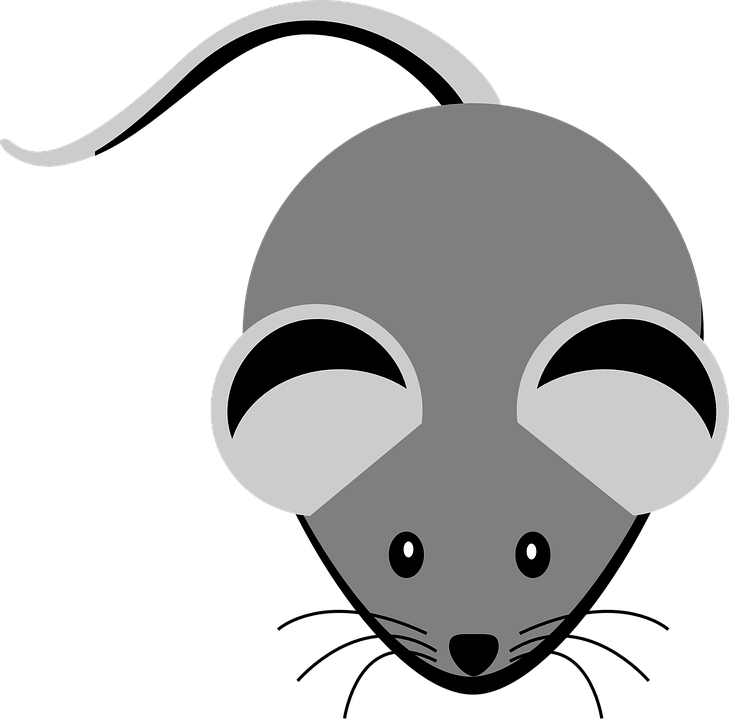
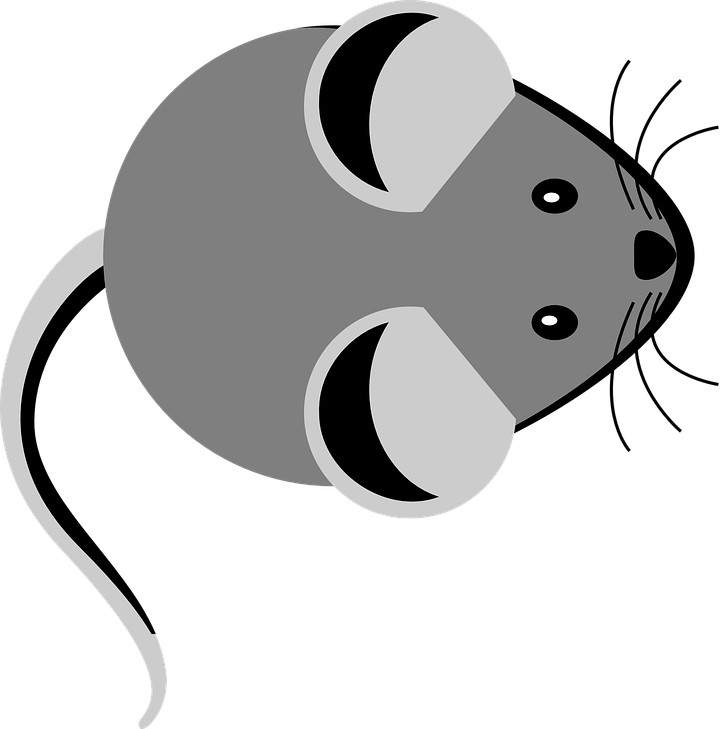
started on curling mice

diff --git a/app/game.js b/app/game.js
@@ -15,6 +15,7 @@ window.onload = function() {
 	var hook = new Hook();
 
 	var mice = [];
+	var curledMice = [];
 	
 	function preload () {
 		game.load.image("hook", "assets/diamond.png");
@@ -27,6 +28,8 @@ window.onload = function() {
 	}
 
 	function create () {
+
+		game.physics.startSystem(Phaser.Physics.ARCADE);
 		game.stage.backgroundColor = "#300000";
 		
 		hook.sprite = game.add.sprite(game.world.centerX, game.world.centerY, "hook");
@@ -57,11 +60,16 @@ window.onload = function() {
 		resolveCollisions();
 		updateHook(hook, keys);
 		updateMice(mice);
-
-		draw();
+		updateCurledMice(curledMice);
 	}	
 
 	function resolveCollisions() {
+		resolveHookCollisions();
+		resolveMiceCollisions();
+	}
+
+	//resolve collisions between hook and mice
+	function resolveHookCollisions() {
 		//first check collisions, then if a collision is found, remove the mouse from the mice array and update hook state
 		var mouseIndex = getCollision();
 		if (mouseIndex >= 0) {
@@ -78,6 +86,25 @@ window.onload = function() {
 		}
 	}
 
+	//resolve collisions between curledmice and normal mice
+	function resolveMiceCollisions() {
+		var mouseIndices = getMiceCollisions();
+		for (mouseIndex in mouseIndices) {
+			var mouseToReplace = mice[mouseIndex];
+			mouseToReplace.sprite.destroy();
+			mice.splice(mouseIndex, 1);
+
+			//now create 1 new curledmouse and change the direction of the other one
+
+		}
+	}
+
+	function getMiceCollisions() {
+		var collidedmice = [];
+		//TODO implement
+		return collidedmice;
+	}
+
 	function getCollision() {
 		var collidedMouse = -1;
 		if(hook.shooting) {
@@ -91,6 +118,7 @@ window.onload = function() {
 						((hook.sprite.y - mouse.sprite.y) * (hook.sprite.y - mouse.sprite.y))) <
 						hook.collisionDistance) {
 
+						console.log("COLLIDED");
 						collidedMouse = mouseindex;
 					}
 				}
@@ -99,7 +127,43 @@ window.onload = function() {
 		return collidedMouse;
 	}
 
-	function draw() {
+	function curleMouse() {
+		curledMice.push(new CurleMouse(hook.sprite.x, hook.sprite.y, hook.sprite.rotation + Math.PI));
+	}
+
+	function updateHook(hook, keys) {
+		updateHookPosition(hook, keys);
+		updateHookState(hook);
+	}
+
+
+	function updateHookPosition(hook, keys) {
+		if (hook.shooting || hook.pulling) {
+			if(hook.shooting) {
+				hook.currentRadius += hook.shootingSpeed;
+			}
+			if(hook.pulling) {
+				var pullingSpeed = hook.caughtMouse ? hook.pullingMouseSpeed : hook.pullingEmptySpeed;
+				hook.currentRadius -= pullingSpeed;
+			}
+		} else {//so if (!shooting && !pulling) 
+			if (keys.keyLeft.isDown) {
+				hook.sprite.angle -= hook.rotationSpeed;
+			}
+			if(keys.keyRight.isDown) {
+				hook.sprite.angle += hook.rotationSpeed;
+			}
+			if(keys.shootPressed) {
+				if(hook.caughtMouse) {
+					curleMouse();
+					hook.curledMouse = true;
+				} else {
+					hook.shooting = true;	
+				}	
+				keys.shootPressed = false;		
+			}
+		}
+		
 		///angles are defined on a range from -180 to +180
 		//initially angle is 0
 		//we introduce here 'calcAngle' to simplify the calculations for the rotation along the cheese
@@ -109,6 +173,50 @@ window.onload = function() {
 
 		hook.sprite.x = game.world.centerX + (hook.currentRadius * Math.cos(hook.calcAngle));
 		hook.sprite.y = game.world.centerY + (hook.currentRadius * Math.sin(hook.calcAngle));
+	}
 
+	function updateHookState(hook) {
+		if (hook.shooting && (hook.currentRadius >= hook.maxRadius)) {			
+			hook.pulling = true;
+			hook.shooting = false;
+		}
+		if (hook.pulling && (hook.currentRadius <= hook.defaultRadius)) {
+			hook.pulling = false;
+			hook.currentRadius = hook.defaultRadius;
+		}	
+		if(hook.caughtMouse && hook.curledMouse) {
+			hook.caughtMouse = false;
+			hook.curledMouse = false;
+			hook.sprite.loadTexture('hook', 0, false);
+		}
+	}
+
+	function updateCurledMice(curledMice) {
+		curledMice.map(function(curledMouse) {
+	        curledMouse.move();
+	    });
+	}
+
+	function updateMice(mice) {
+	    if(Math.random() < 0.01 && mice.length < 50) {        
+	        mice.push(spawnMouse());
+	    }
+
+	    mice.map(function(mouse) {
+	        mouse.twitchMouse();
+	    });
+	}
+
+	function spawnMouse() {
+	    var rand = Math.random();
+	    if(rand <= .25) {
+	        return new Mouse(Math.random() * window.screen.width, 0);        
+	    } else if(rand <= .5) {
+	        return new Mouse(Math.random() * window.screen.width, window.screen.height);    
+	    } else if(rand <= .75) {
+	        return new Mouse(0, Math.random() * window.screen.height);
+	    } else {
+	        return new Mouse(window.screen.width, Math.random() * window.screen.height);
+	    }
 	}
 };

diff --git a/app/mouse.js b/app/mouse.js
@@ -3,6 +3,7 @@ class Mouse {
         this.sprite = game.add.sprite(x, y, "mouse");
         this.sprite.scale.setTo(0.05, 0.05);
         this.sprite.anchor.setTo(0.5, 0.5);
+        this.curling = false;
     }
     
     twitchMouse() {		
@@ -12,7 +13,7 @@ class Mouse {
         var dX = targetX - this.sprite.x;
         var dY = targetY - this.sprite.y;
         
-        var rot = Math.atan2(dY, dX) - Math.PI / 2;
+        var rot = Math.atan2(dY, dX);
 
         var x = Math.random() > 0.5? dX/100 : 0;
         var y = Math.random() > 0.5? dY/100 : 0;
@@ -20,31 +21,4 @@ class Mouse {
         this.sprite.y += y;
         this.sprite.rotation = rot;
     }
-}
-
-function updateMice(mice) {
-    if(Math.random() < 0.01 && mice.length < 50) {        
-        mice.push(spawnMouse());
-    }
-
-    mice.map(function(mouse) {
-        mouse.twitchMouse();
-    });
-}
-
-function spawnMouse() {
-    var rand = Math.random();
-    if(rand <= .25) {
-        return new Mouse(Math.random() * window.screen.width, 0);        
-    } else if(rand <= .5) {
-        return new Mouse(Math.random() * window.screen.width, window.screen.height);    
-    } else if(rand <= .75) {
-        return new Mouse(0, Math.random() * window.screen.height);
-    } else {
-        return new Mouse(window.screen.width, Math.random() * window.screen.height);
-    }
-}
-
-function curleMouse() {
-    console.log("curle mouse!");
 }

diff --git a/app/hook.js b/app/hook.js
@@ -14,53 +14,3 @@ var Hook = function() {
 	this.pullingEmptySpeed = 8;
 	this.collisionDistance = 25;
 }
-
-function updateHook(hook, keys) {
-	updateHookPosition(hook, keys);
-	updateHookState(hook);
-}
-
-
-function updateHookPosition(hook, keys) {
-	if (hook.shooting || hook.pulling) {
-		if(hook.shooting) {
-			hook.currentRadius += hook.shootingSpeed;
-		}
-		if(hook.pulling) {
-			var pullingSpeed = hook.caughtMouse ? hook.pullingMouseSpeed : hook.pullingEmptySpeed;
-			hook.currentRadius -= pullingSpeed;
-		}
-	} else {//so if (!shooting && !pulling) 
-		if (keys.keyLeft.isDown) {
-			hook.sprite.angle -= hook.rotationSpeed;
-		}
-		if(keys.keyRight.isDown) {
-			hook.sprite.angle += hook.rotationSpeed;
-		}
-		if(keys.shootPressed) {
-			if(hook.caughtMouse) {
-				curleMouse(hook.sprite.x, hook.sprite.y);
-				hook.curledMouse = true;
-			} else {
-				hook.shooting = true;	
-			}	
-			keys.shootPressed = false;		
-		}
-	}
-}
-
-function updateHookState(hook) {
-	if (hook.shooting && (hook.currentRadius >= hook.maxRadius)) {			
-		hook.pulling = true;
-		hook.shooting = false;
-	}
-	if (hook.pulling && (hook.currentRadius <= hook.defaultRadius)) {
-		hook.pulling = false;
-		hook.currentRadius = hook.defaultRadius;
-	}	
-	if(hook.caughtMouse && hook.curledMouse) {
-		hook.caughtMouse = false;
-		hook.curledMouse = false;
-		hook.sprite.loadTexture('hook', 0, false);
-	}
-}

diff --git a/app/curlemouse.js b/app/curlemouse.js
@@ -1,0 +1,17 @@
+class CurleMouse {
+	constructor(x, y, rotation) {
+		this.sprite = game.add.sprite(x, y, "mouse");
+        this.sprite.anchor.setTo(0.5, 0.5);
+        this.sprite.scale.setTo(0.05, 0.05);
+
+        this.sprite.rotation = rotation;
+        this.distance = 75;
+        this.speed = 8;
+    }
+
+    move() {
+    	this.distance += this.speed;
+    	this.sprite.x = game.world.centerX + this.distance * Math.cos(this.sprite.rotation);
+    	this.sprite.y = game.world.centerY + this.distance * Math.sin(this.sprite.rotation);
+    }
+}

diff --git a/index.html b/index.html
@@ -8,6 +8,7 @@
         <script src="js/phaser.min.js"></script>
         <script src="app/hook.js"></script>        
         <script src="app/mouse.js"></script>
+        <script src="app/curlemouse.js"></script>
         <script src="app/game.js"></script>
         
     </body>
